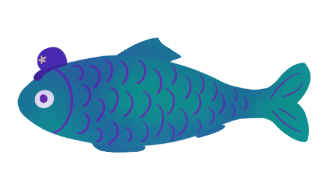
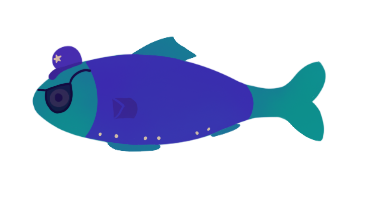
use new fish sprites

diff --git a/src/fish.rs b/src/fish.rs
@@ -43,12 +43,14 @@ impl Model {
     }
     pub fn avoid(fish: &Fish, delta_time: f32, nearby_fish: &Vec<&Fish>) -> Vec2<f32> {
         let mut result: Vec2<f32> = Vec2::ZERO;
+        let fish_size = FishConfigs::get().configs[fish.index].size;
         for fish2 in nearby_fish {
-            if fish2.pos.pos.sub(fish.pos.pos).len() < 1.0 {
+            if fish2.pos.pos.sub(fish.pos.pos).len() < fish_size {
                 result -= fish2.pos.pos - fish.pos.pos;
             }
         }
-        result * delta_time
+        let fish_config = &FishConfigs::get().configs[fish.index];
+        result * delta_time * fish_size
     }
     pub fn match_velocity(fish: &Fish, delta_time: f32, nearby_fish: &Vec<&Fish>) -> Vec2<f32> {
         let mut result: Vec2<f32> = Vec2::ZERO;
@@ -319,7 +321,7 @@ impl Game {
             //     pos
             // }
             pos.pos.extend(height),
-        ) * Mat4::rotate_z(pos.rot)
+        ) * Mat4::rotate_z(pos.rot + f32::PI)
             * Mat4::scale(texture.size().map(|x| x as f32 / 500.0).extend(1.0))
             * Mat4::rotate_x(f32::PI / 2.0);
         ugli::draw(

diff --git a/src/assets.rs b/src/assets.rs
@@ -145,6 +145,7 @@ pub struct FishConfig {
     pub cost: u32,
     pub spawn_circle: Option<SpawnCircle>,
     pub count: u32,
+    pub size: f32,
 }
 
 pub struct FishAssets {
